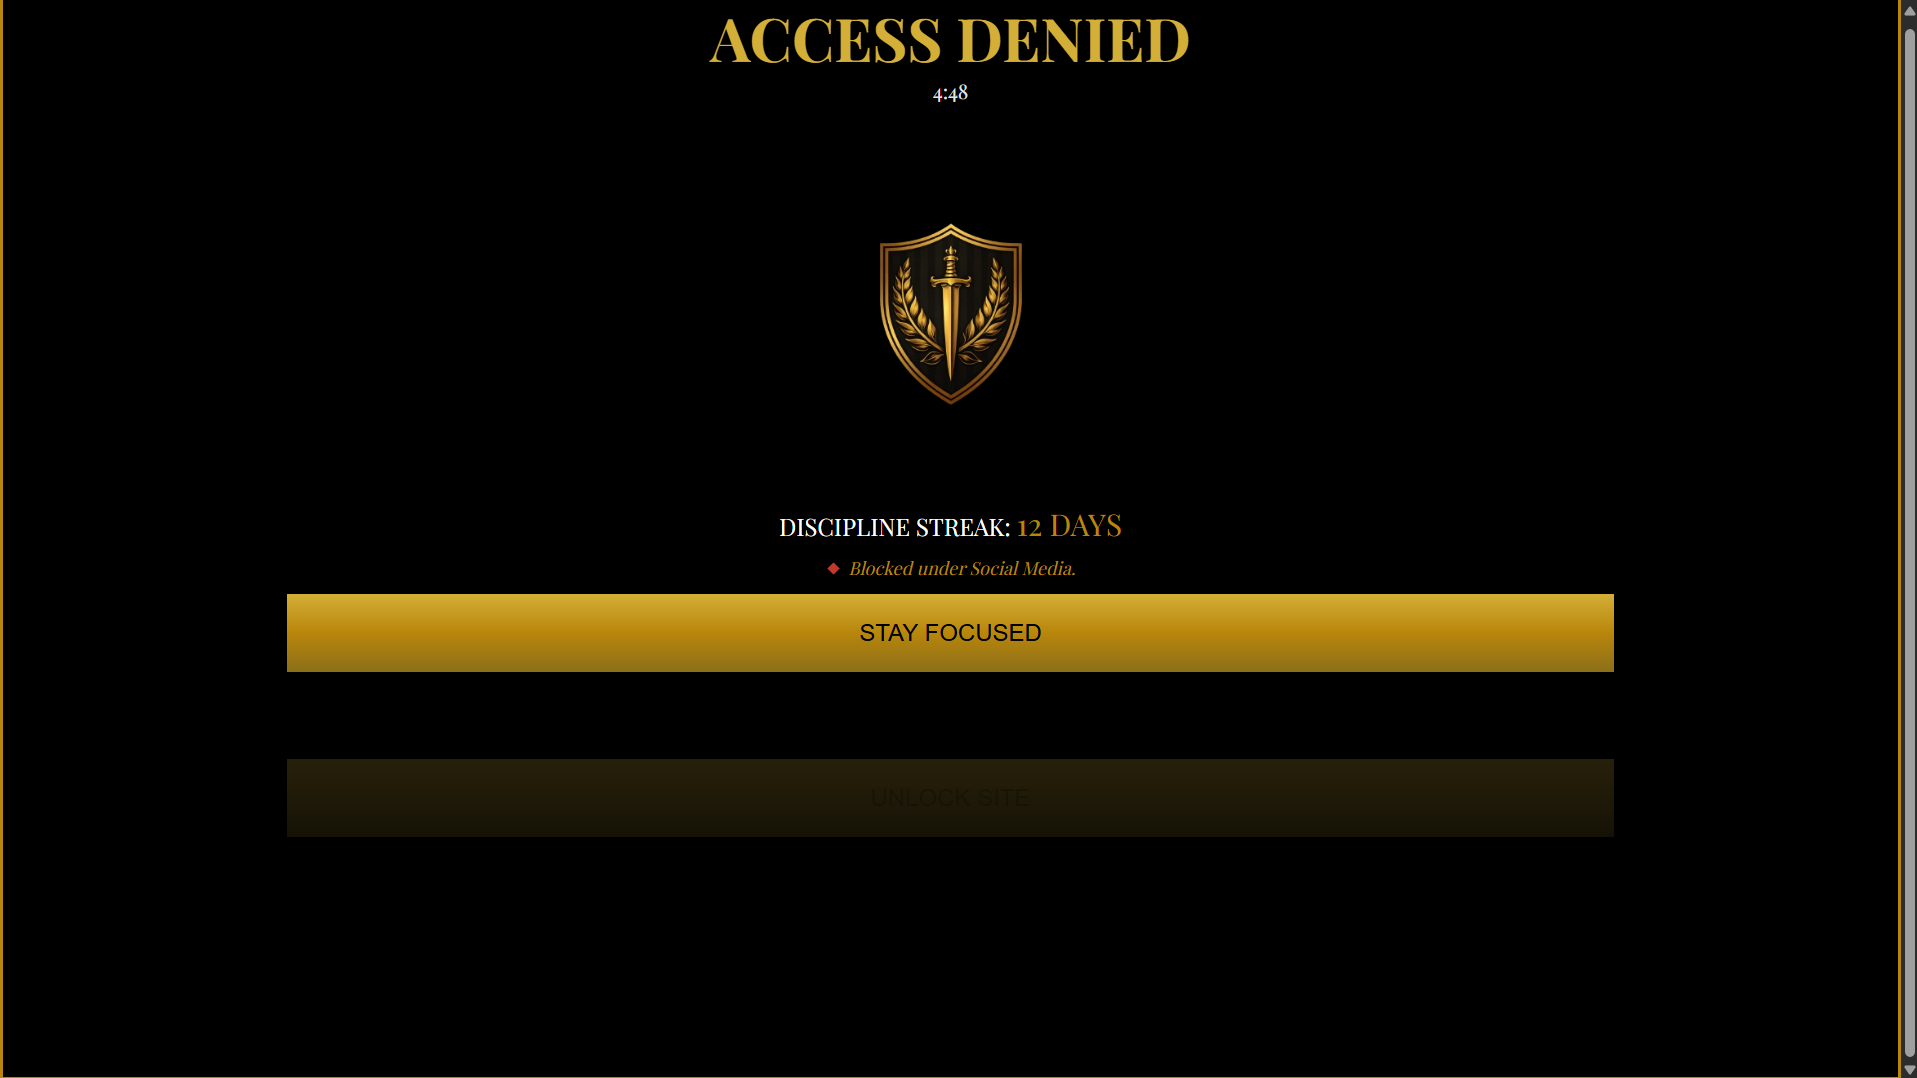
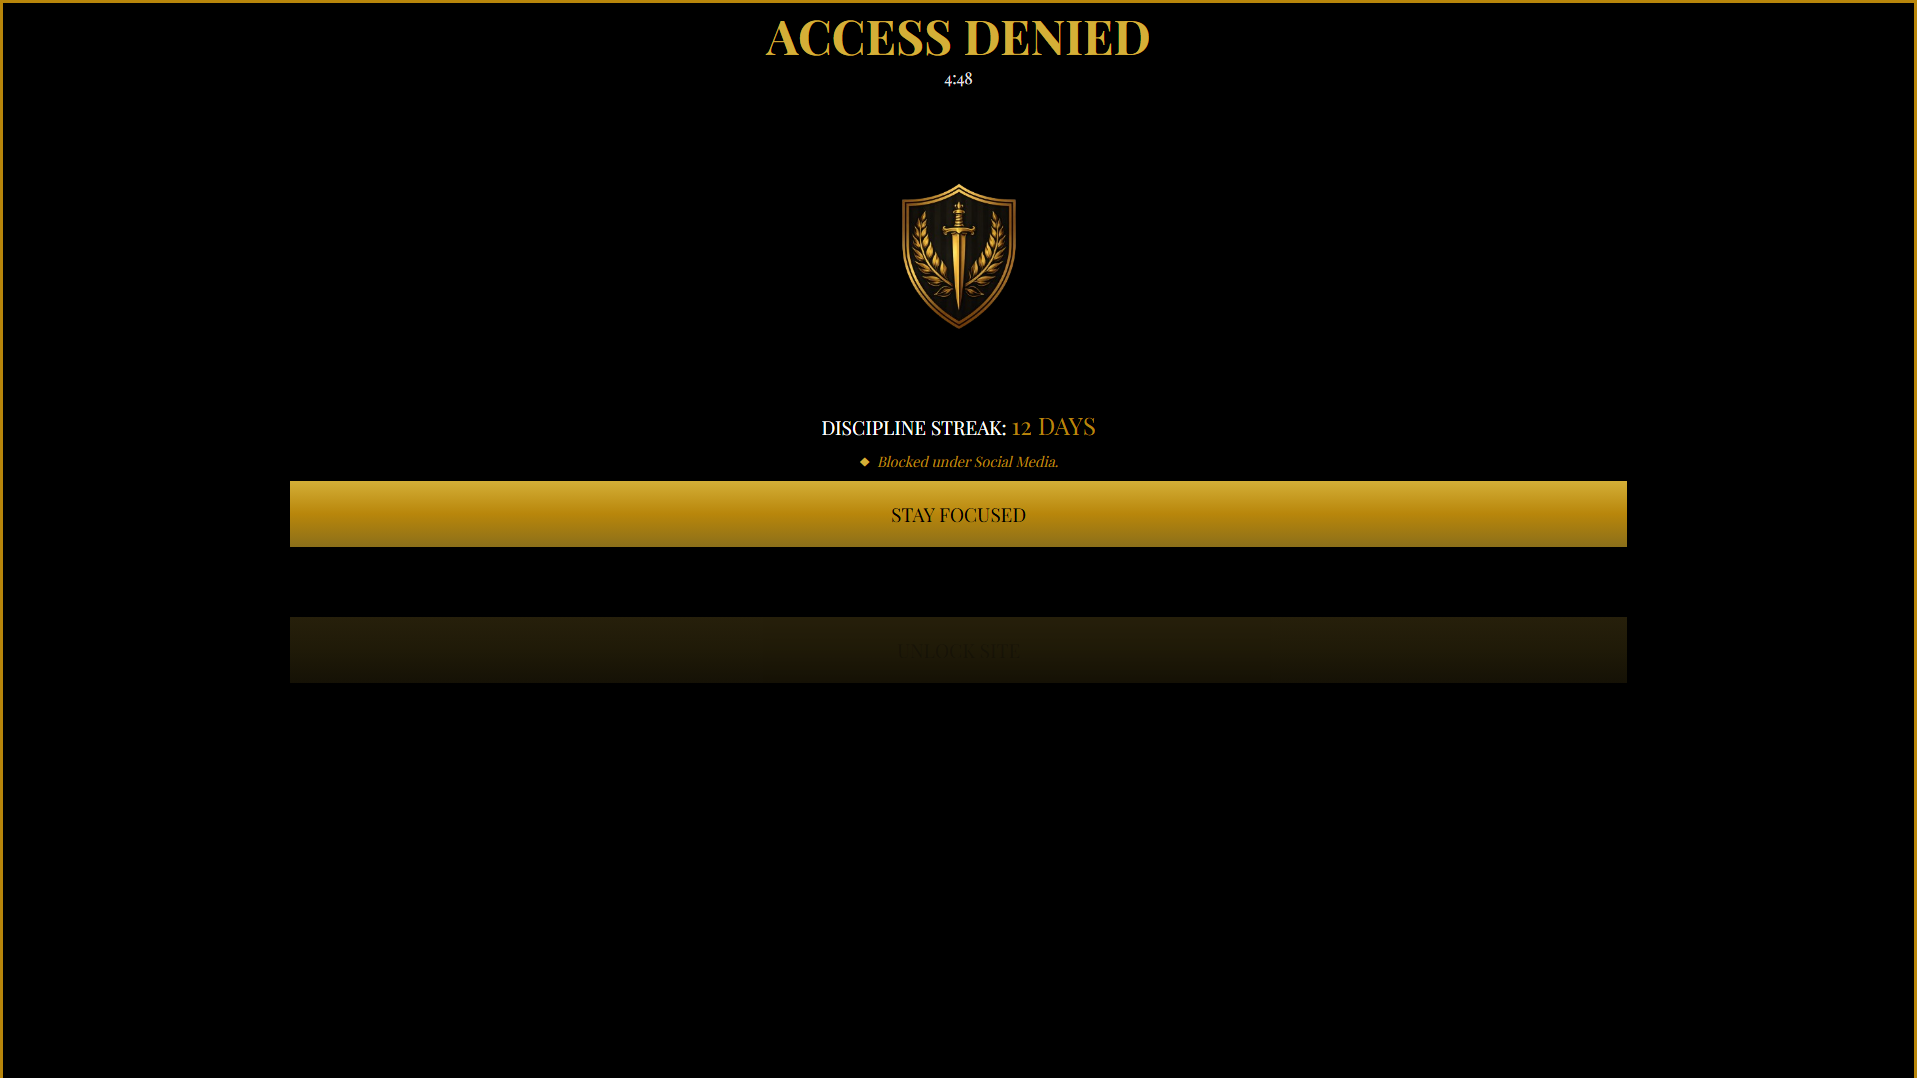
Reshoot the screenshots, and say in the listing what Dominus now is
Every store image except The Campaign predated this release, and two of them
were advertising faults rather than features: the Fortress showed the detached
permanent-block rows, the ragged cooldown, system-font buttons, panels on bare
black - and no Programs panel at all, which is what 1.12 is for. The Seal
showed no emblem and no pairing panel, because it predates the desktop app
entirely.

Reshot with headless Chrome against a stand-in for chrome.storage, seeded with
the same sample fortress the old set was taken from - 12-day streak, longest
31, 22 stands, 85% of 254 moments - so the new frames sit beside the one that
did not need replacing without the figures disagreeing. Rendered at 1600x1000
and scaled to 1280x800, which is what the old set evidently did: its rail
measures 215px of a 1280 frame where the stylesheet says 260.

The Campaign is untouched. Its stylesheet was not changed this release, the
view has no panels and no buttons, so nothing in it moved.

New: 08-Programs, because the programs panel sits below the fold on the
fortress page and is the whole reason this version exists.

The listing said nothing about the desktop app, blocking programs, or daily
allowances - it described the product as it was two versions ago. It now has
sections for both, says plainly that program blocking is Windows-only and
needs the app running, and extends the privacy paragraph to cover the second
half: the two talk over loopback, and the typeface ships inside rather than
[…]

diff --git a/README.md b/README.md
@@ -59,6 +59,12 @@ Dominus is one window. The rail stays put; the views change.
 | ![The Campaign](docs/screenshots/The-Campaign.png) | ![The Seal](docs/screenshots/The-Seal.png) |
 | *Streaks, victory rate and a year of history* | *A password on weakening it — and a copy you can keep* |
 
+Programs are blocked too, from 1.12, with a daily allowance if a limit suits
+better than a wall. They are enforced by the desktop app — the browser cannot
+see a program at all — but they are edited from either half:
+
+![Programs](docs/screenshots/Programs.png)
+
 When you meet a blocked site, and while the cooldown runs:
 
 | Blocked page | Cooldown |
